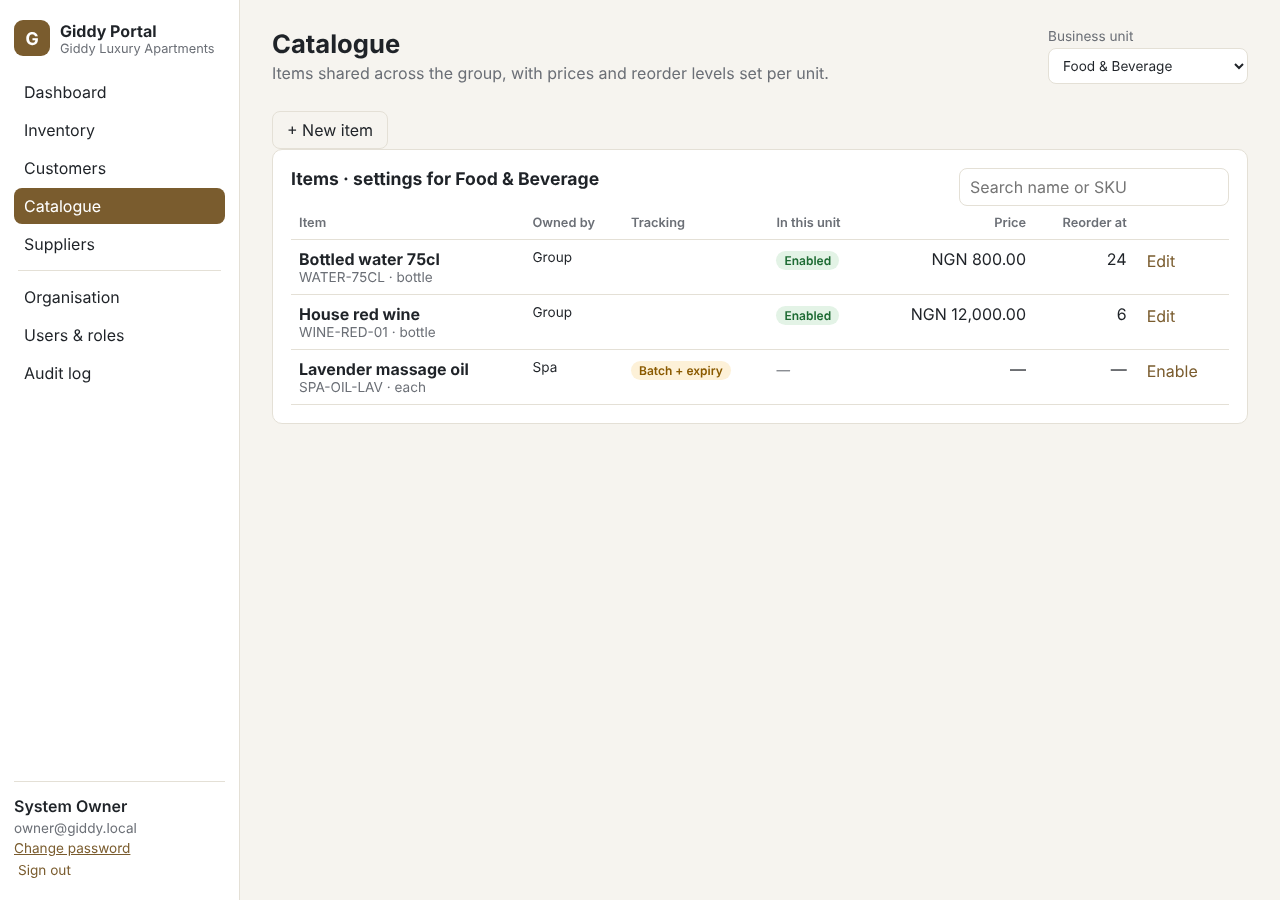
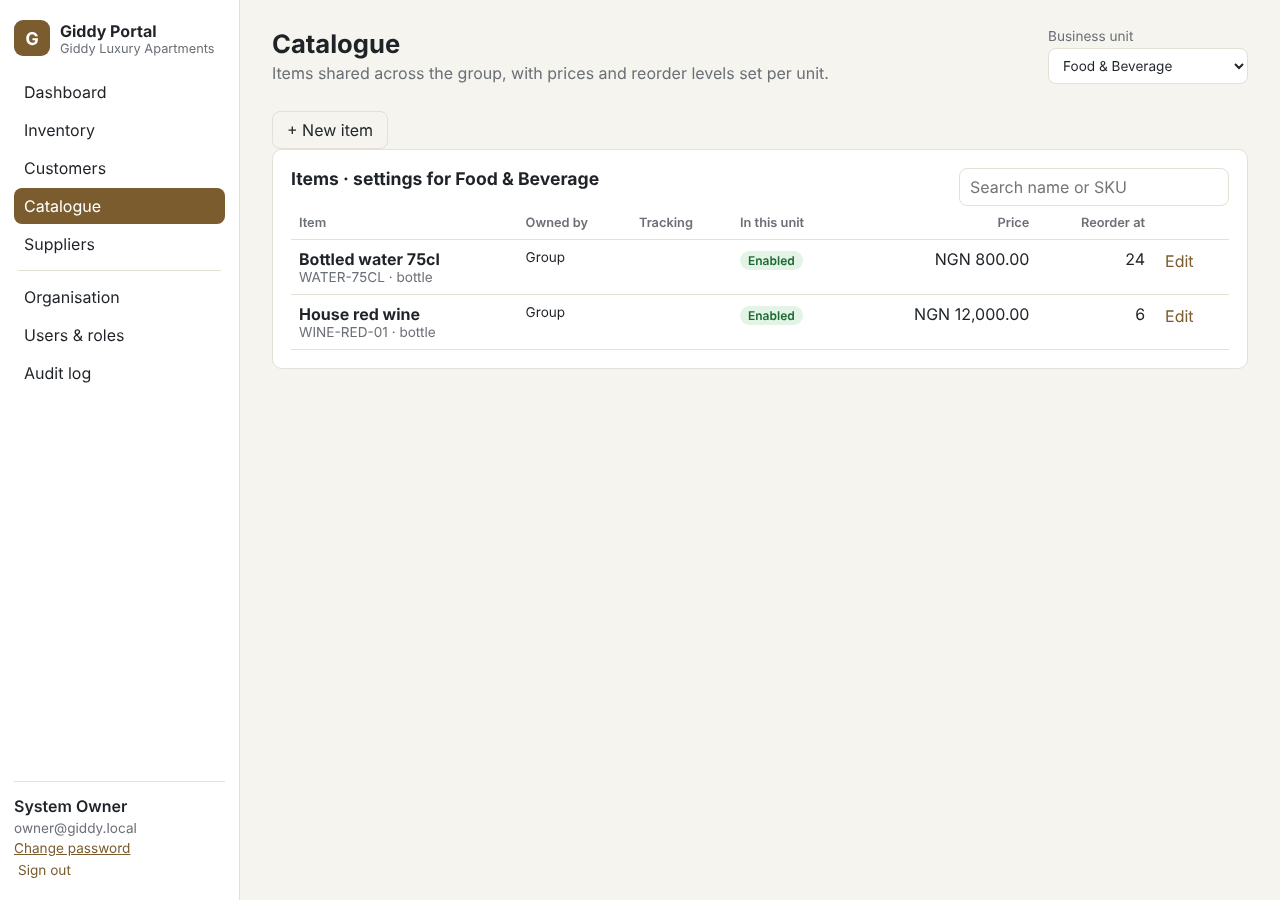
Units may only use group items and their own items
A database trigger rejects enabling another unit's item in a unit, and the
catalogue lists only usable items for the selected unit.

Claude-Session: https://claude.ai/code/session_015NNzE7Wi6ZdPwNQb8zaU6t

diff --git a/server/test/inventory.test.js b/server/test/inventory.test.js
@@ -46,6 +46,15 @@ test('items: group items are managed by the owner, unit items by that unit', asy
   assert.equal((await partner.patch(`/api/catalog/items/${oil.id}`, { name: 'Massage oil (lavender)', rowVersion: oil.row_version })).status, 200);
 });
 
+test("a unit cannot use another unit's item", async () => {
+  const res = await owner.put(`/api/catalog/items/${oil.id}/units/${seed.units.FNB}`, { sellPrice: 9000 });
+  assert.equal(res.status, 400);
+  assert.match(res.body.error, /belongs to another business unit/);
+  const fnbItems = (await owner.get(`/api/catalog/items?businessUnitId=${seed.units.FNB}`)).body;
+  assert.ok(!fnbItems.some((i) => i.id === oil.id), 'Spa items are not listed for F&B');
+  assert.ok(fnbItems.some((i) => i.id === water.id), 'group items are');
+});
+
 test('locations follow the Branch → Department → Staff hierarchy', async () => {
   const cashier = await staffMember(owner, { email: 'cashier@test.local', role: 'STAFF', businessUnitId: seed.units.FNB });
   const wrong = await owner.post(`${FNB()}/locations`, {

diff --git a/server/src/routes/catalog.js b/server/src/routes/catalog.js
@@ -87,6 +87,8 @@ export function catalogRoutes() {
          LEFT JOIN business_unit ob ON ob.id = i.owner_business_unit_id
          LEFT JOIN business_unit_item bui ON bui.item_id = i.id AND bui.business_unit_id = $2
         WHERE ($1::text IS NULL OR i.name ILIKE '%' || $1 || '%' OR i.sku ILIKE $1 || '%')
+          -- with a unit selected, show only what that unit may use: group items and its own
+          AND ($2::uuid IS NULL OR i.owner_business_unit_id IS NULL OR i.owner_business_unit_id = $2)
           AND ($3 OR i.is_active)
         ORDER BY i.name LIMIT 500`,
       [q.q || null, q.businessUnitId ?? null, q.includeInactive === 'true'])).rows);

diff --git a/docs/architecture.md b/docs/architecture.md
@@ -77,6 +77,8 @@ Password hashes are stripped from snapshots.
   Each has an owner — the group (`owner_business_unit_id` NULL, managed by holders of `tenant.settings`)
   or one unit (managed by that unit's CFG writers). So the Spa Partner can maintain Spa products,
   and nobody else can rename them.
+- A unit can only use **group items and its own items** — never another unit's
+  (`inv.business_unit_item_check_owner`). The Catalogue lists only those items for the selected unit.
 - What a unit does with a shared record is private to the unit: `business_unit_item` (selling price,
   reorder level — CFG) and `business_unit_supplier` (account number, payment terms — FIN).
 - Batch and expiry tracking are fixed when an item is created; changing them later would invalidate
